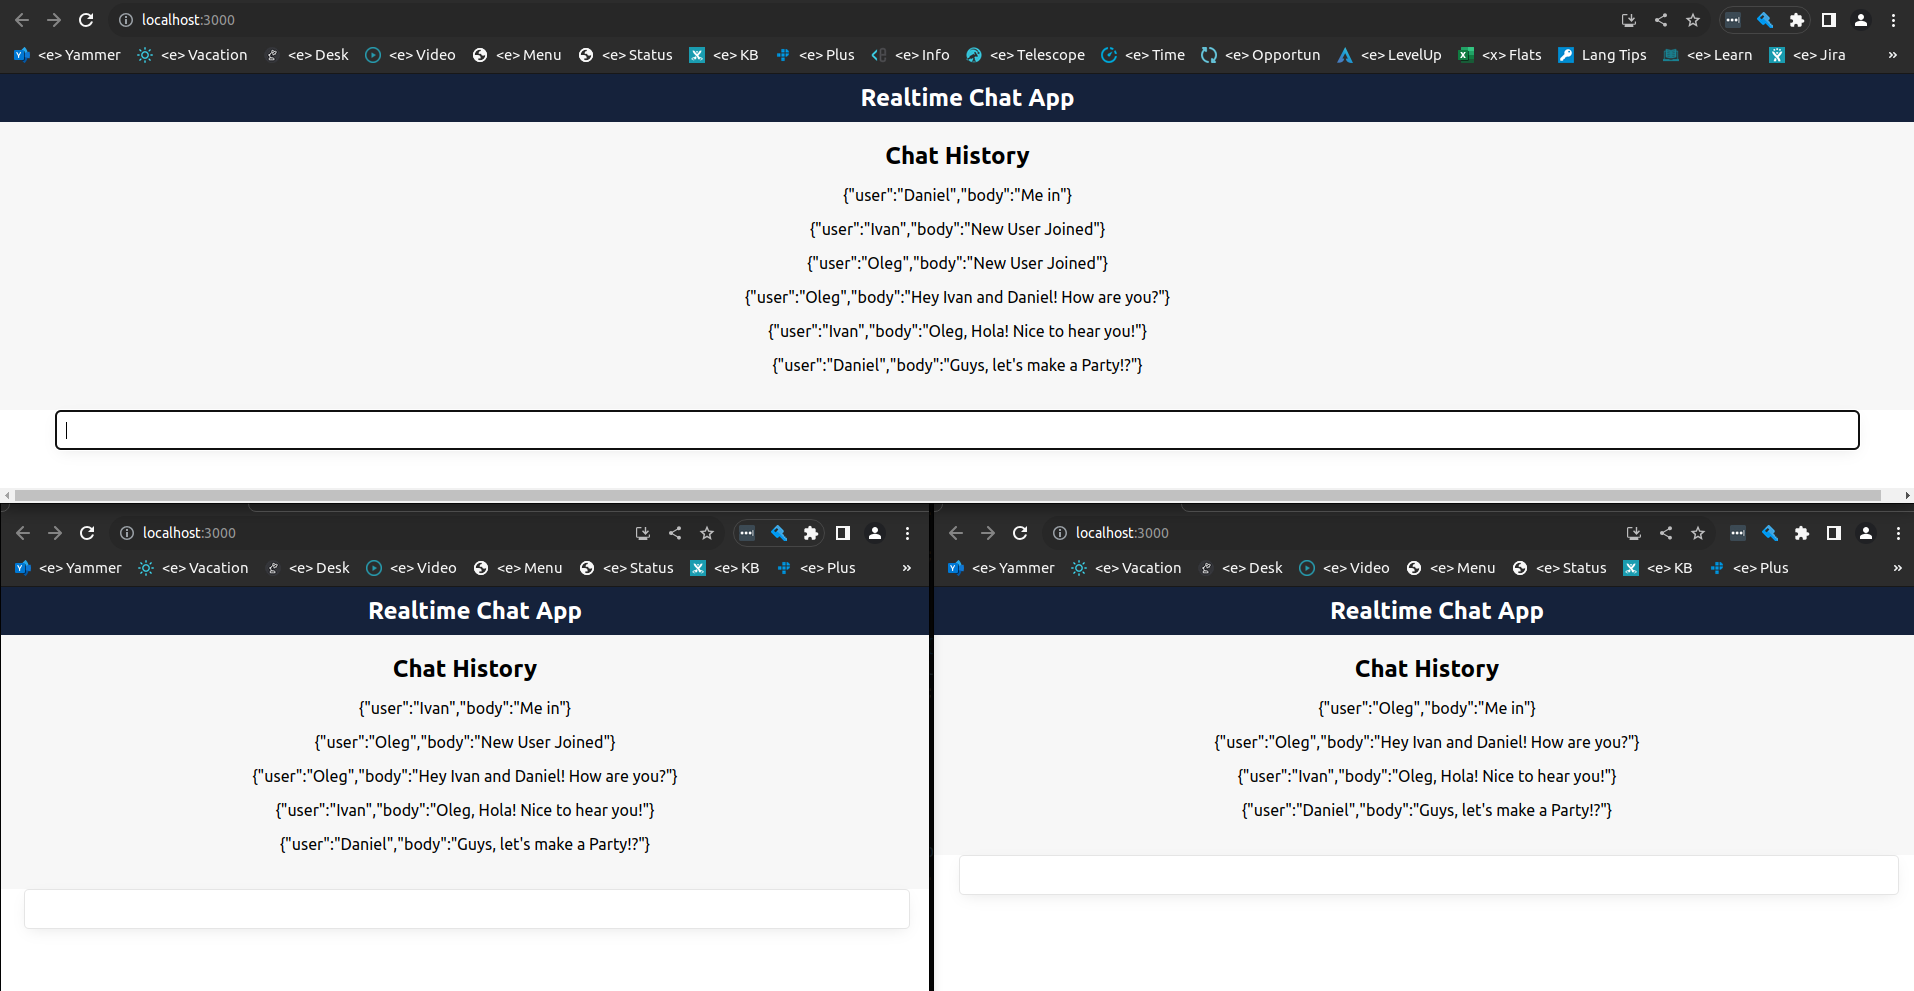
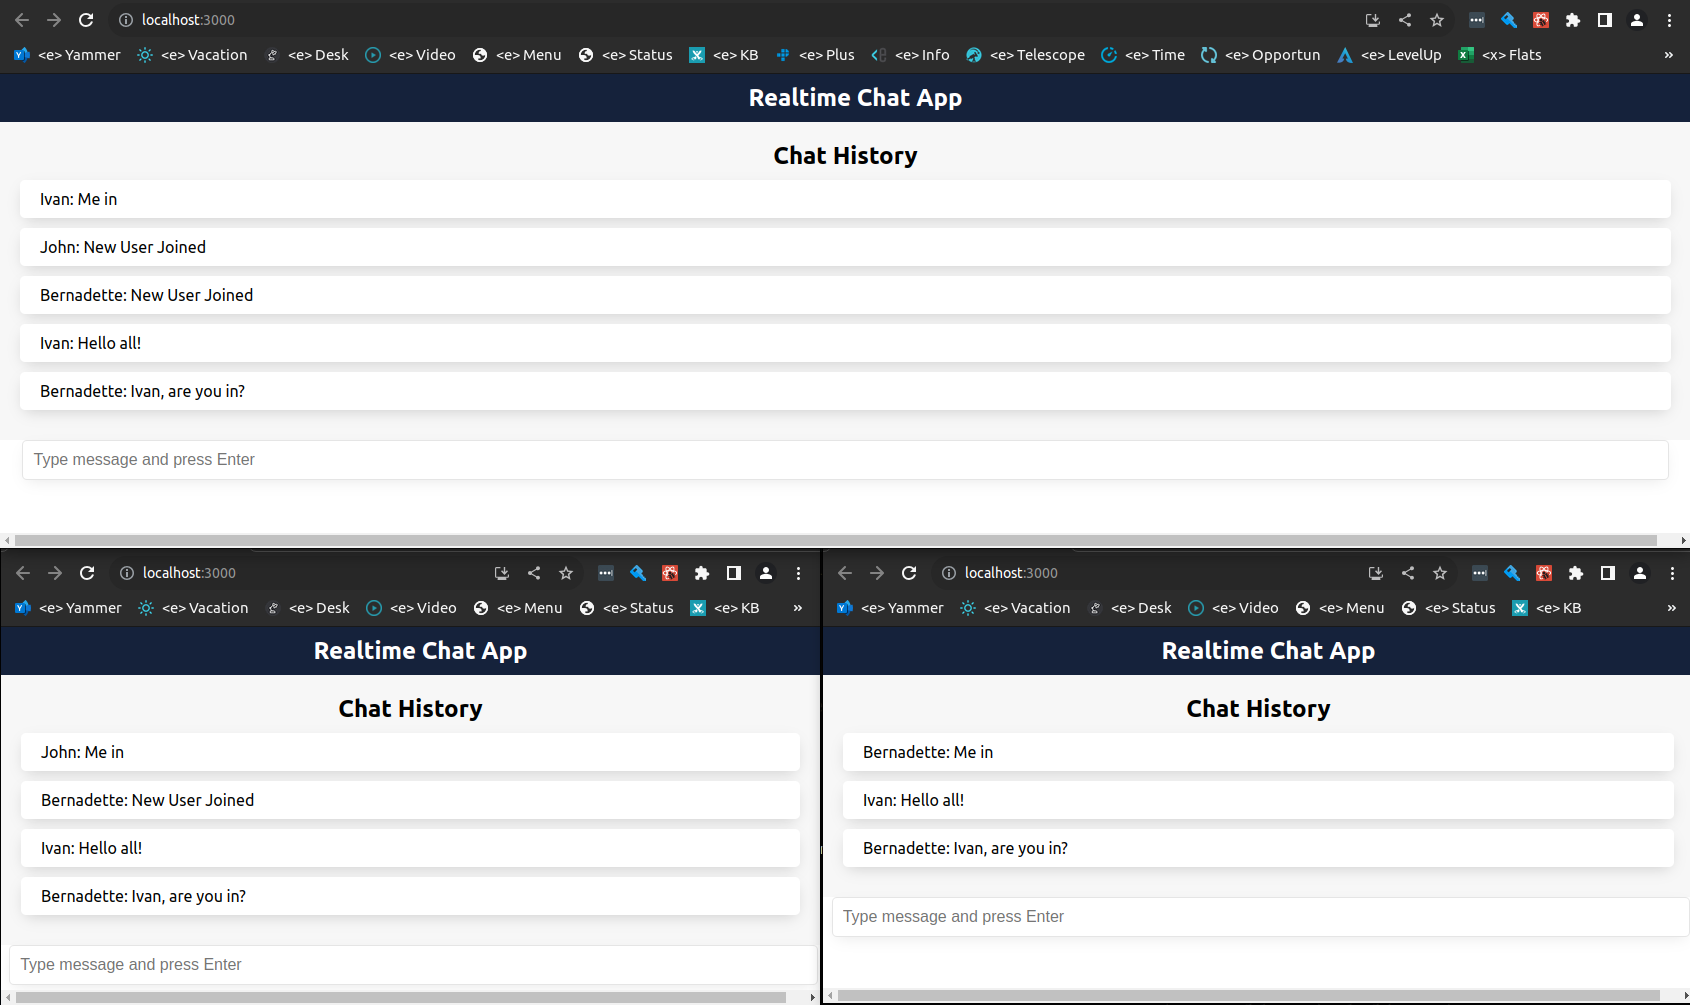
Backend and frontend have been added (step 3)

diff --git a/front/src/App.js b/front/src/App.js
@@ -16,23 +16,27 @@ class App extends Component {
     connect((msg) => {
       console.log("New Message")
       this.setState(prevState => ({
-        chatHistory: [...this.state.chatHistory, msg]
+        chatHistory: [...prevState.chatHistory, msg]
       }))
       console.log(this.state);
     });
   }
   send(event) {
-    if(event.keyCode === 13) {
+    if(event.keyCode === 13 && event.target.value.length > 0) {
       sendMsg(event.target.value);
       event.target.value = "";
     }
   }
   render() {
+    var ph = "Type your name and press Enter to login"
+    if (this.state.chatHistory.length > 0) {
+      ph = "Type message and press Enter"
+    }
     return (
       <div className="App">
         <Header />
         <ChatHistory chatHistory={this.state.chatHistory} />
-        <ChatInput send={this.send} />
+        <ChatInput send={this.send} placeholder={ph} />
       </div>
     );
   }

diff --git a/front/src/components/ChatHistory/ChatHistory.jsx b/front/src/components/ChatHistory/ChatHistory.jsx
@@ -1,11 +1,10 @@
 import React, { Component } from "react";
 import "./ChatHistory.scss";
+import Message from '../Message/Message';
 
 class ChatHistory extends Component {
   render() {
-    const messages = this.props.chatHistory.map((msg, index) => (
-      <p key={index}>{msg.data}</p>
-    ));
+    const messages = this.props.chatHistory.map((msg, i) => <Message message={msg.data} key={i} />);
 
     return (
       <div className="ChatHistory">

diff --git a/front/src/api/index.js b/front/src/api/index.js
@@ -1,14 +1,10 @@
 var socket = new WebSocket("ws://localhost:8080/ws");
 
-const Names = ["Sergey", "Ivan", "Vitaly", "Oleg", "Daniel", "Anna", "Nina", "Oxana", "Alex", "Bot"];
-
 let connect = cb => {
   console.log("connecting...");
 
   socket.onopen = () => {
     console.log("Successfully Connected");
-    var name = Names[Math.floor(Math.random() * Names.length)];
-    socket.send(name);
   };
 
   socket.onmessage = msg => {

diff --git a/front/src/components/Message/Message.jsx b/front/src/components/Message/Message.jsx
@@ -1,0 +1,18 @@
+import React, { Component } from "react";
+import "./Message.scss";
+
+class Message extends Component {
+  constructor(props) {
+    super(props);
+    this.state = {
+      message: JSON.parse(this.props.message)
+    };
+  }
+
+  render() {
+    let msg = this.state.message.user + ": " + this.state.message.body
+    return <div className="Message">{msg}</div>;
+  }
+}
+
+export default Message;

diff --git a/front/src/components/Message/Message.scss b/front/src/components/Message/Message.scss
@@ -1,0 +1,16 @@
+.Message {
+    display: block;
+    background-color: white;
+    margin: 10px auto;
+    box-shadow: 0 5px 15px -5px rgba(0, 0, 0, 0.2);
+    padding: 10px 20px;
+    border-radius: 5px;
+    clear: both;
+    text-align: left;
+  
+    &.me {
+      color: white;
+      float: right;
+      background-color: #328ec4;
+    }
+  }

diff --git a/front/src/components/ChatInput/ChatInput.jsx b/front/src/components/ChatInput/ChatInput.jsx
@@ -5,7 +5,7 @@ class ChatInput extends Component {
   render() {
     return (
       <div className="ChatInput">
-        <input onKeyDown={this.props.send} />
+        <input onKeyDown={this.props.send} placeholder={this.props.placeholder}/>
       </div>
     );
   }

diff --git a/front/src/components/ChatInput/ChatInput.scss b/front/src/components/ChatInput/ChatInput.scss
@@ -1,5 +1,5 @@
 .ChatInput {
-    width: 95%;
+    width: 98%;
     display: block;
     margin: auto;
   

diff --git a/front/src/components/Message/index.js b/front/src/components/Message/index.js
@@ -1,0 +1,3 @@
+import Message from "./Message.jsx";
+
+export default Message;
